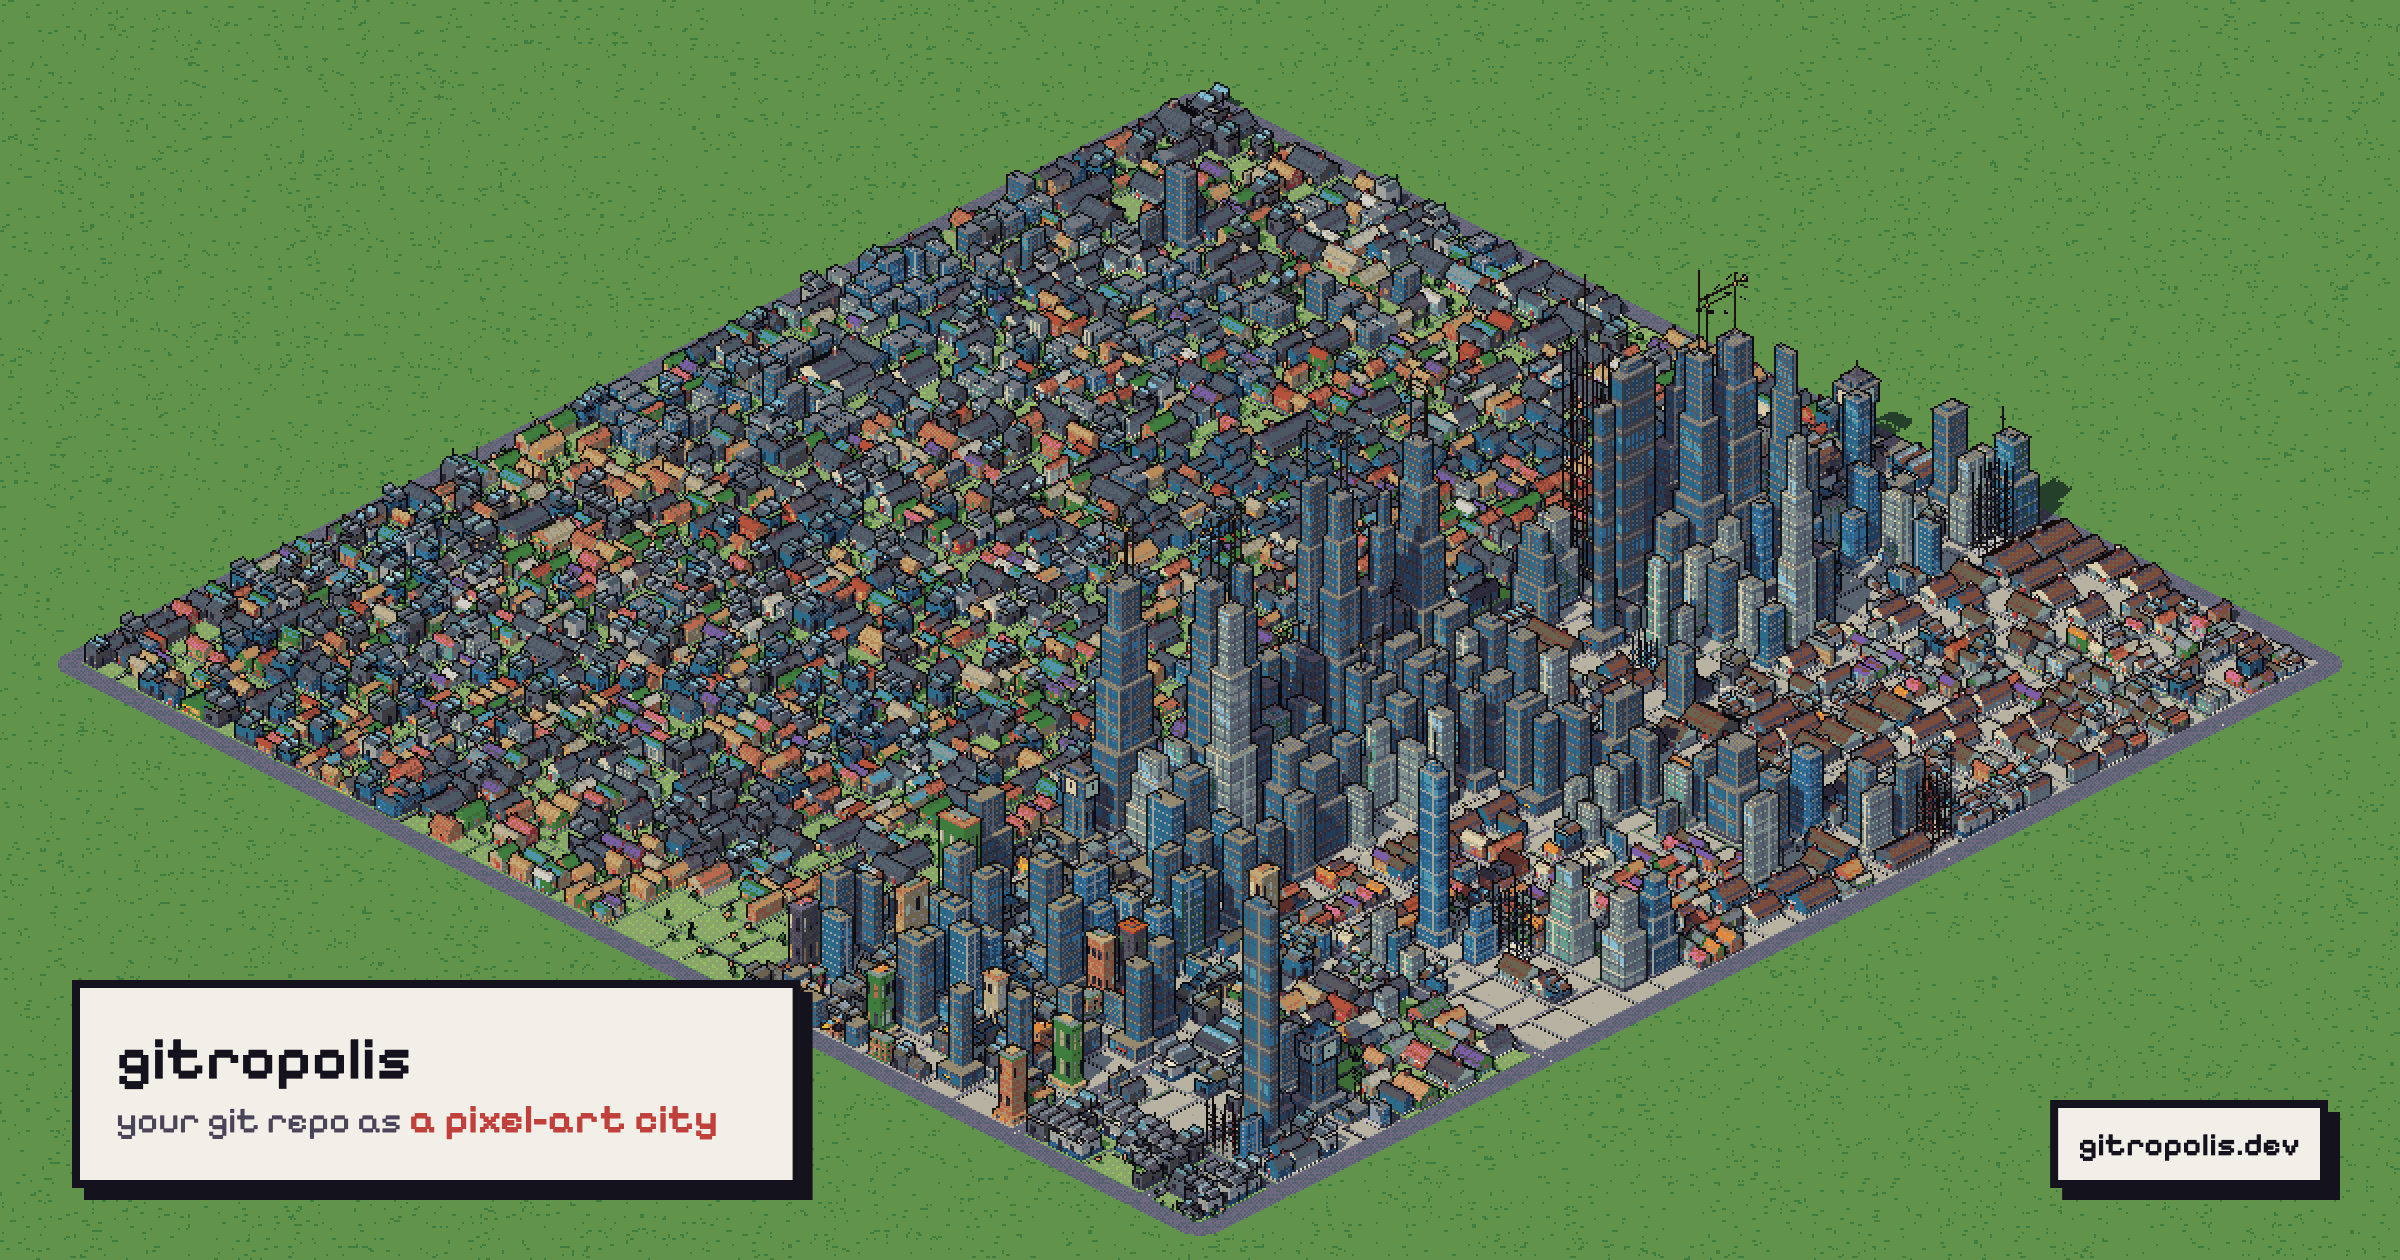
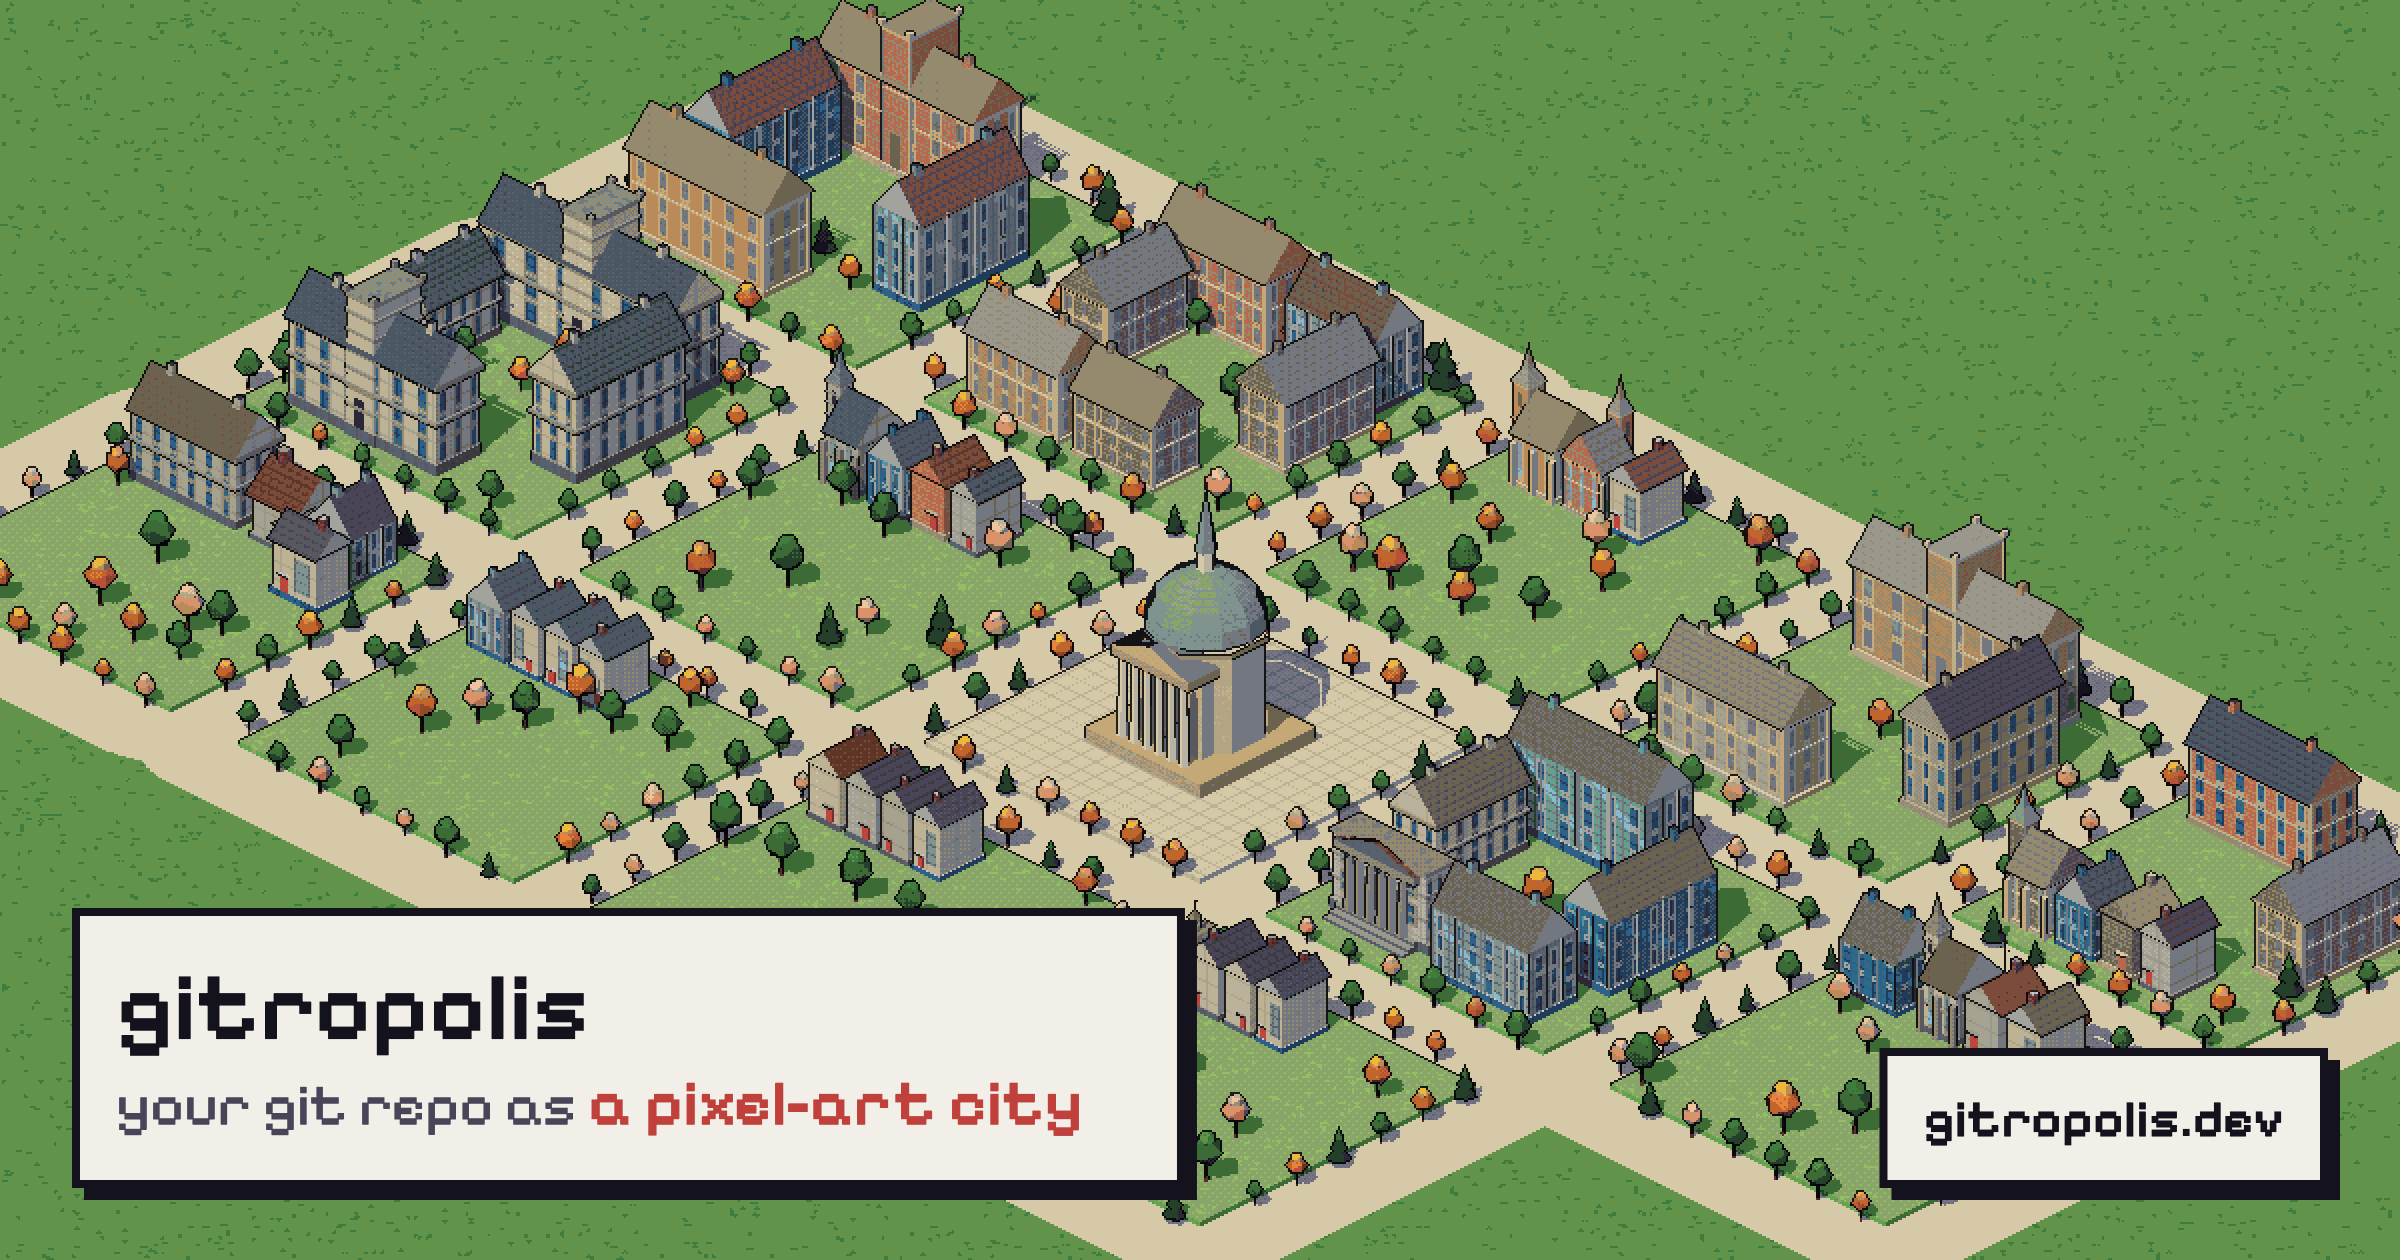
The site's link preview: the university town, with bigger type
The same picture as the GitHub repo's social preview, so both links look alike,
and calmer and more legible than vite's dense grid at the size X shows cards.

diff --git a/web/card.js b/web/card.js
@@ -13,7 +13,7 @@ export const FORMATS = {
   story: { W: 1080, H: 1920, label: 'story' },
 };
 // sizes that aren't offered in the dialog: GitHub's repository social preview (2:1)
-const EXTRA = { social: { W: 1280, H: 640 } };
+const EXTRA = { social: { W: 1280, H: 640 }, brand: { W: 1200, H: 630 } }; // and the site's own link preview
 const M = 36, P = 22, BORDER = 4, SHADOW = 6;
 
 
@@ -75,7 +75,7 @@ function layout(g, format, info, { W, H, full, scale }) {
   let bands, paint;
   if (full) {
     // full bleed: the city is the picture, with a small name tag in one corner and the address in the other
-    const z = n => Math.round(n * (scale || (format === 'story' ? 1.7 : format === 'square' ? 1.25 : format === 'social' ? 1.6 : 1)));
+    const z = n => Math.round(n * (scale || (format === 'story' ? 1.7 : format === 'square' ? 1.25 : format === 'social' || format === 'brand' ? 1.6 : 1)));
     const name = info.owner ? `${info.owner}/${info.repo}` : info.repo;
     const np = fit(name, z(30), W * 0.6), tagW = Math.max(width(name, np, 600), width(`${lead}${info.phrase}`, z(20), 600)) + P * 2;
     const tagH = P * 2 + np + z(30), urlP = z(16), urlW = width(info.url, urlP, 600) + z(14) * 2, urlH = urlP + z(14) * 2;

diff --git a/web/main.js b/web/main.js
@@ -1344,7 +1344,7 @@ const CARD = params.get('card');
 if (CARD && pix && layout) {
   // ?card=social is the site's own picture at GitHub's 1280×640 for the repository's social preview
   const social = CARD === 'social', brand = CARD === 'brand' || social;
-  const format = social ? 'social' : CARD === 'og' || brand ? 'landscape' : CARD;
+  const format = social ? 'social' : CARD === 'brand' ? 'brand' : CARD === 'og' ? 'landscape' : CARD;
   const info = shareInfo().info;
   if (brand) Object.assign(info, { owner: '', repo: 'gitropolis', lead: 'your git repo as ', phrase: 'a pixel-art city', url: 'gitropolis.dev' });
   drawCard(format, info, captureCity, { k: social ? 1 : 2, full: brand || params.has('full') })
